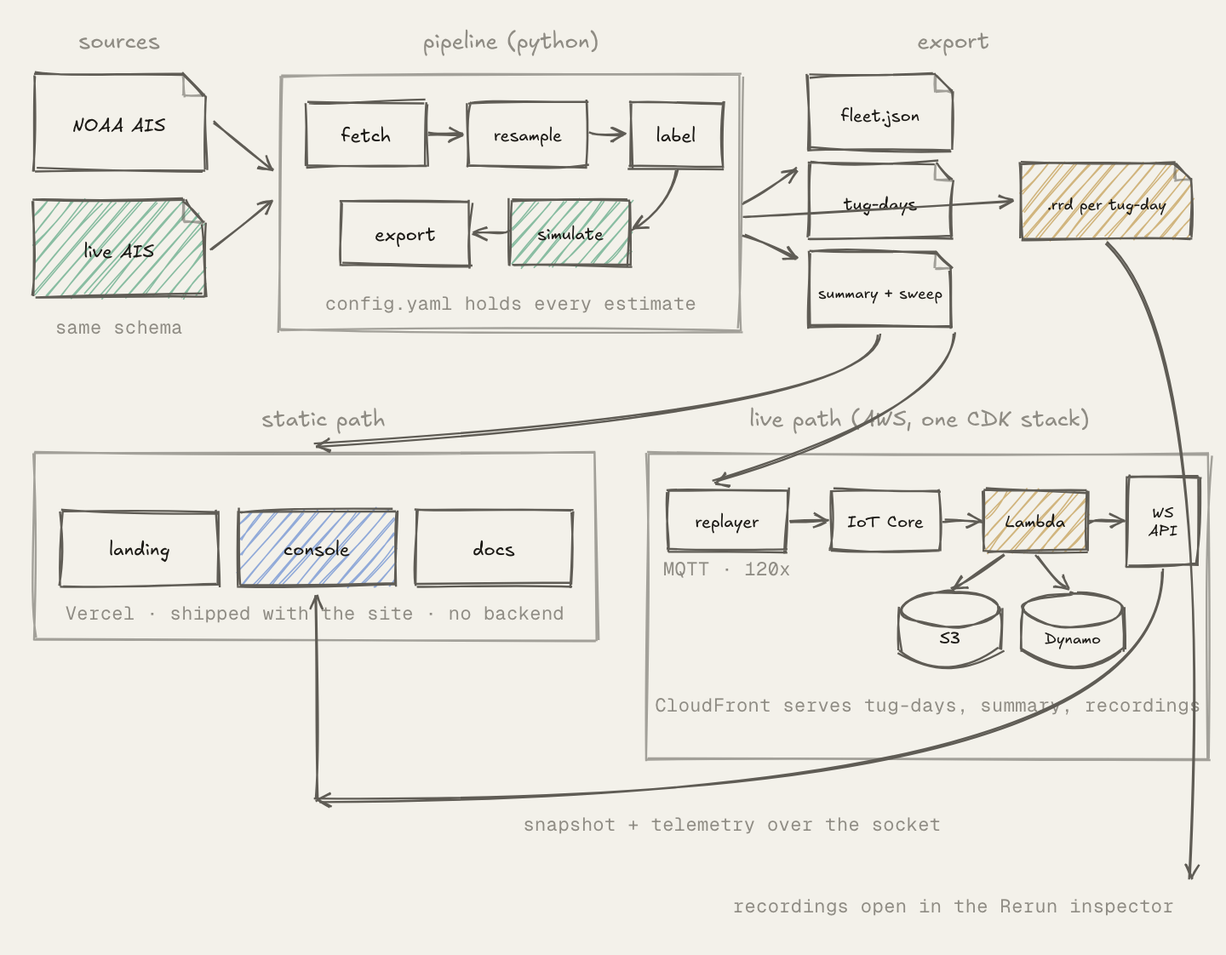
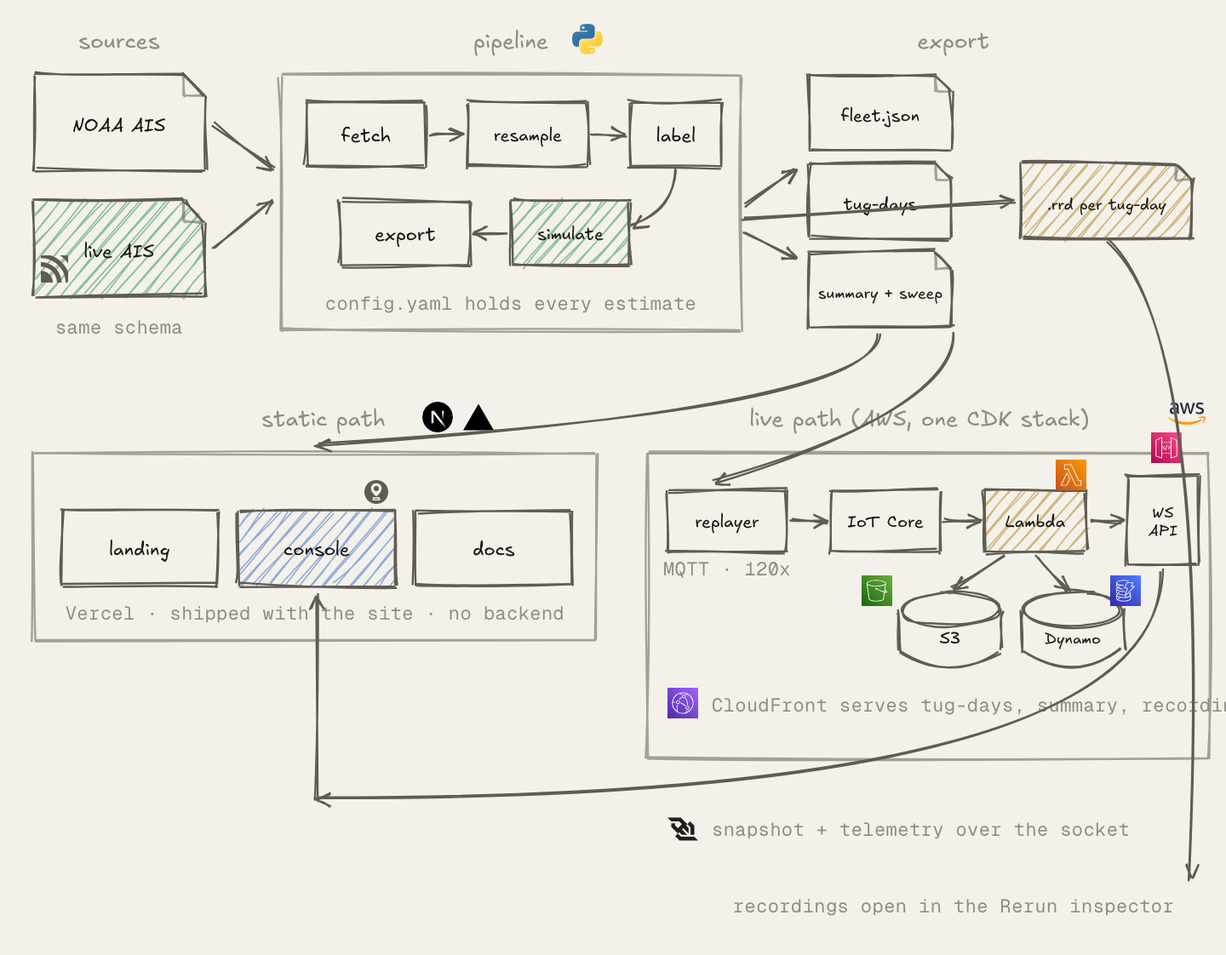
technology marks on the architecture drawing

diff --git a/dashboard/src/components/docs/logos.ts b/dashboard/src/components/docs/logos.ts
@@ -1,0 +1,4 @@
+/* Technology marks for the docs figures. Color marks come from the CC0 "SVG Logos" collection (gilbarbara/logos via @iconify-json/logos);
+ * MQTT and MapLibre are monochrome paths from Simple Icons (CC0). Trademarks belong to their owners; used here to label a diagram. */
+export interface LogoDef { w: number; h: number; body: string; mono: boolean }
+export const LOGOS: Record<string, LogoDef> = {"python":{"w":256,"h":255,"body":"<defs><linearGradient id=\"SVGg39WleeP\" x1=\"12.959%\" x2=\"79.639%\" y1=\"12.039%\" y2=\"78.201%\"><stop offset=\"0%\" stop-color=\"#387eb8\"/><stop offset=\"100%\" stop-color=\"#366994\"/></linearGradient><linearGradient id=\"SVGlXoRkc4T\" x1=\"19.128%\" x2=\"90.742%\" y1=\"20.579%\" y2=\"88.429%\"><stop offset=\"0%\" stop-color=\"#ffe052\"/><stop offset=\"100%\" stop-color=\"#ffc331\"/></linearGradient></defs><path fill=\"url(#SVGg39WleeP)\" d=\"M126.916.072c-64.832 0-60.784 28.115-60.784 28.115l.072 29.128h61.868v8.745H41.631S.145 61.355.145 126.77c0 65.417 36.21 63.097 36.21 63.097h21.61v-30.356s-1.165-36.21 35.632-36.21h61.362s34.475.557 34.475-33.319V33.97S194.67.072 126.916.072M92.802 19.66a11.12 11.12 0 0 1 11.13 11.13a11.12 11.12 0 0 1-11.13 11.13a11.12 11.12 0 0 1-11.13-11.13a11.12 11.12 0 0 1 11.13-11.13\"/><path fill=\"url(#SVGlXoRkc4T)\" d=\"M128.757 254.126c64.832 0 60.784-28.115 60.784-28.115l-.072-29.127H127.6v-8.745h86.441s41.486 4.705 41.486-60.712c0-65.416-36.21-63.096-36.21-63.096h-21.61v30.355s1.165 36.21-35.632 36.21h-61.362s-34.475-.557-34.475 33.32v56.013s-5.235 33.897 62.518 33.897m34.114-19.586a11.12 11.12 0 0 1-11.13-11.13a11.12 11.12 0 0 1 11.13-11.131a11.12 11.12 0 0 1 11.13 11.13a11.12 11.12 0 0 1-11.13 11.13\"/>","mono":false},"nextjs":{"w":256,"h":256,"body":"<defs><linearGradient id=\"SVGrDou6dwg\" x1=\"55.633%\" x2=\"83.228%\" y1=\"56.385%\" y2=\"96.08%\"><stop offset=\"0%\" stop-color=\"#fff\"/><stop offset=\"100%\" stop-color=\"#fff\" stop-opacity=\"0\"/></linearGradient><linearGradient id=\"SVG9onTObtB\" x1=\"50%\" x2=\"49.953%\" y1=\"0%\" y2=\"73.438%\"><stop offset=\"0%\" stop-color=\"#fff\"/><stop offset=\"100%\" stop-color=\"#fff\" stop-opacity=\"0\"/></linearGradient><circle id=\"SVGN5eQqeMK\" cx=\"128\" cy=\"128\" r=\"128\"/></defs><mask id=\"SVGMX2wGdvm\" fill=\"#fff\"><use href=\"#SVGN5eQqeMK\"/></mask><g mask=\"url(#SVGMX2wGdvm)\"><circle cx=\"128\" cy=\"128\" r=\"128\"/><path fill=\"url(#SVGrDou6dwg)\" d=\"M212.634 224.028L98.335 76.8H76.8v102.357h17.228V98.68L199.11 234.446a128 128 0 0 0 13.524-10.418\"/><path fill=\"url(#SVG9onTObtB)\" d=\"M163.556 76.8h17.067v102.4h-17.067z\"/></g>","mono":false},"vercel":{"w":256,"h":222,"body":"<path d=\"m128 0l128 221.705H0z\"/>","mono":false},"aws":{"w":256,"h":153,"body":"<path fill=\"#252f3e\" d=\"M72.392 55.438c0 3.137.34 5.68.933 7.545a45.4 45.4 0 0 0 2.712 6.103c.424.678.593 1.356.593 1.95c0 .847-.508 1.695-1.61 2.543l-5.34 3.56c-.763.509-1.526.763-2.205.763c-.847 0-1.695-.424-2.543-1.187a26 26 0 0 1-3.051-3.984c-.848-1.44-1.696-3.052-2.628-5.001q-9.919 11.697-24.922 11.698c-7.12 0-12.8-2.035-16.954-6.103c-4.153-4.07-6.272-9.495-6.272-16.276c0-7.205 2.543-13.054 7.714-17.462c5.17-4.408 12.037-6.612 20.768-6.612c2.882 0 5.849.254 8.985.678c3.137.424 6.358 1.102 9.749 1.865V29.33c0-6.443-1.357-10.935-3.985-13.563c-2.712-2.628-7.29-3.9-13.817-3.9c-2.967 0-6.018.34-9.155 1.103s-6.188 1.695-9.155 2.882c-1.356.593-2.373.932-2.967 1.102s-1.017.254-1.356.254c-1.187 0-1.78-.848-1.78-2.628v-4.154c0-1.356.17-2.373.593-2.966c.424-.594 1.187-1.187 2.374-1.78q4.45-2.29 10.68-3.815C33.908.763 38.316.255 42.978.255c10.088 0 17.463 2.288 22.21 6.866c4.662 4.577 7.036 11.528 7.036 20.853v27.464zM37.976 68.323c2.798 0 5.68-.508 8.731-1.526c3.052-1.017 5.765-2.882 8.053-5.425c1.357-1.61 2.374-3.39 2.882-5.425c.509-2.034.848-4.493.848-7.375v-3.56a71 71 0 0 0-7.799-1.441a64 64 0 0 0-7.968-.509c-5.68 0-9.833 1.102-12.63 3.391s-4.154 5.51-4.154 9.748c0 3.984 1.017 6.951 3.136 8.986c2.035 2.119 5.002 3.136 8.901 3.136m68.069 9.155c-1.526 0-2.543-.254-3.221-.848c-.678-.508-1.272-1.695-1.78-3.305L81.124 7.799c-.51-1.696-.764-2.798-.764-3.391c0-1.356.678-2.12 2.035-2.12h8.307c1.61 0 2.713.255 3.306.848c.678.509 1.187 1.696 1.695 3.306l14.241 56.117l13.224-56.117c.424-1.695.933-2.797 1.61-3.306c.679-.508 1.866-.847 3.392-.847h6.781c1.61 0 2.713.254 3.39.847c.679.509 1.272 1.696 1.611 3.306l13.394 56.795L168.01 6.442c.508-1.695 1.102-2.797 1.695-3.306c.678-.508 1.78-.847 3.306-.847h7.883c1.357 0 2.12.678 2.12 2.119c0 .424-.085.848-.17 1.356s-.254 1.187-.593 2.12l-20.43 65.525q-.762 2.544-1.78 3.306c-.678.509-1.78.848-3.22.848h-7.29c-1.611 0-2.713-.254-3.392-.848c-.678-.593-1.271-1.695-1.61-3.39l-13.14-54.676l-13.054 54.59c-.423 1.696-.932 2.798-1.61 3.391c-.678.594-1.865.848-3.39.848zm108.927 2.289c-4.408 0-8.816-.509-13.054-1.526c-4.239-1.017-7.544-2.12-9.748-3.39c-1.357-.764-2.29-1.611-2.628-2.374a6 6 0 0 1-.509-2.374V65.78c0-1.78.678-2.628 1.95-2.628a4.8 4.8 0 0 1 1.526.255c.508.17 1.271.508 2.119.847a46 46 0 0 0 9.324 2.967a51 51 0 0 0 10.088 1.017c5.34 0 9.494-.932 12.376-2.797s4.408-4.577 4.408-8.053c0-2.373-.763-4.323-2.289-5.934s-4.408-3.051-8.561-4.408l-12.292-3.814c-6.188-1.95-10.765-4.832-13.563-8.647c-2.797-3.73-4.238-7.883-4.238-12.291q0-5.34 2.289-9.41c1.525-2.712 3.56-5.085 6.103-6.95c2.543-1.95 5.425-3.391 8.816-4.408c3.39-1.017 6.95-1.441 10.68-1.441c1.865 0 3.815.085 5.68.339c1.95.254 3.73.593 5.51.932c1.695.424 3.306.848 4.832 1.357q2.288.762 3.56 1.525c1.187.679 2.034 1.357 2.543 2.12q.763 1.017.763 2.797v3.984c0 1.78-.678 2.713-1.95 2.713c-.678 0-1.78-.34-3.22-1.018q-7.25-3.306-16.276-3.306c-4.832 0-8.647.763-11.275 2.374c-2.627 1.61-3.984 4.069-3.984 7.544c0 2.374.848 4.408 2.543 6.019s4.832 3.221 9.325 4.662l12.037 3.815c6.103 1.95 10.511 4.662 13.139 8.137s3.9 7.46 3.9 11.868c0 3.645-.764 6.951-2.205 9.833c-1.525 2.882-3.56 5.425-6.188 7.46c-2.628 2.119-5.764 3.645-9.409 4.747c-3.815 1.187-7.799 1.78-12.122 1.78\"/><path fill=\"#f90\" d=\"M230.993 120.964c-27.888 20.599-68.408 31.534-103.247 31.534c-48.827 0-92.821-18.056-126.05-48.064c-2.628-2.373-.255-5.594 2.881-3.73c35.942 20.854 80.276 33.484 126.136 33.484c30.94 0 64.932-6.442 96.212-19.666c4.662-2.12 8.646 3.052 4.068 6.442m11.614-13.224c-3.56-4.577-23.566-2.204-32.636-1.102c-2.713.34-3.137-2.034-.678-3.814c15.936-11.19 42.13-7.968 45.181-4.239c3.052 3.815-.848 30.008-15.767 42.554c-2.288 1.95-4.492.933-3.475-1.61c3.39-8.393 10.935-27.296 7.375-31.789\"/>","mono":false},"lambda":{"w":256,"h":256,"body":"<defs><linearGradient id=\"SVGeyciVcvH\" x1=\"0%\" x2=\"100%\" y1=\"100%\" y2=\"0%\"><stop offset=\"0%\" stop-color=\"#c8511b\"/><stop offset=\"100%\" stop-color=\"#f90\"/></linearGradient></defs><path fill=\"url(#SVGeyciVcvH)\" d=\"M0 0h256v256H0z\"/><path fill=\"#fff\" d=\"M89.624 211.2H49.89l43.945-91.853l19.912 40.992zm7.079-100.63a3.22 3.22 0 0 0-2.887-1.805h-.01a3.2 3.2 0 0 0-2.886 1.82L41.913 213.022a3.203 3.203 0 0 0 2.893 4.58l46.848-.001a3.21 3.21 0 0 0 2.9-1.83l25.65-54.08a3.18 3.18 0 0 0-.016-2.762zM207.985 211.2h-39.477L105.174 78.624a3.21 3.21 0 0 0-2.897-1.824h-25.83l.03-32h50.626l63.042 132.573a3.21 3.21 0 0 0 2.897 1.827h14.943zm3.208-38.4h-16.121L132.03 40.227a3.21 3.21 0 0 0-2.9-1.827H73.273a3.206 3.206 0 0 0-3.208 3.197l-.035 38.4c0 .851.333 1.664.94 2.265c.6.602 1.414.938 2.267.938h27.017l63.337 132.576a3.2 3.2 0 0 0 2.893 1.824h44.709a3.203 3.203 0 0 0 3.207-3.2V176c0-1.766-1.434-3.2-3.207-3.2\"/>","mono":false},"dynamodb":{"w":256,"h":256,"body":"<defs><linearGradient id=\"SVGte2wIbLN\" x1=\"0%\" x2=\"100%\" y1=\"100%\" y2=\"0%\"><stop offset=\"0%\" stop-color=\"#2e27ad\"/><stop offset=\"100%\" stop-color=\"#527fff\"/></linearGradient></defs><path fill=\"url(#SVGte2wIbLN)\" d=\"M0 0h256v256H0z\"/><path fill=\"#fff\" d=\"M166.675 175.52c-10.682 8.637-33.091 13.2-54.534 13.2c-21.447 0-43.863-4.566-54.541-13.202v17.392h.003c0 8.675 22.397 18.342 54.538 18.342c32.115 0 54.499-9.655 54.534-18.323zm.003-33.049l6.4-.035v.035c0 3.866-1.936 7.475-5.705 10.779c4.57 4.021 5.705 7.966 5.705 10.775c0 .02-.003.035-.003.054v28.831h.003c0 16.035-31.398 24.69-60.937 24.69c-29.469 0-60.781-8.617-60.931-24.578c0-.016-.01-.032-.01-.048v-28.958c0-.007.006-.016.006-.026c.01-2.809 1.15-6.738 5.712-10.75c-4.534-4.005-5.686-7.912-5.715-10.699h.003c0-.013-.006-.022-.006-.035v-28.958c0-.01.006-.02.006-.029c.01-2.809 1.152-6.738 5.716-10.743c-4.538-4.009-5.69-7.92-5.719-10.703h.003c0-.012-.006-.025-.006-.038V63.08c0-.01.006-.019.006-.029C51.261 47.04 82.624 38.4 112.141 38.4c16.675 0 32.694 2.65 43.948 7.271l-2.448 5.866c-10.505-4.314-25.632-6.79-41.5-6.79c-32.141 0-54.538 9.668-54.538 18.349c0 8.677 22.397 18.345 54.538 18.345c.867.01 1.715 0 2.573-.032l.268 6.342c-.947.038-1.894.038-2.841.038c-21.447 0-43.863-4.568-54.541-13.204V91.97h.003v.073c.032 3.329 3.447 6.236 6.307 8.083c8.608 5.488 24.032 9.236 41.232 10.014l-.29 6.341c-17.425-.79-32.682-4.405-42.503-9.946c-2.42 1.809-4.746 4.256-4.746 7.03c0 8.677 22.397 18.345 54.538 18.345c3.152 0 6.281-.105 9.305-.315l.445 6.332c-3.168.22-6.451.33-9.75.33c-21.447 0-43.863-4.567-54.541-13.203v17.383h.003c.032 3.403 3.447 6.307 6.307 8.157c9.844 6.281 28.327 10.192 48.23 10.192h1.409v6.347h-1.408c-20.221 0-38.599-3.754-49.837-10.099c-2.406 1.806-4.7 4.24-4.7 6.992c0 8.677 22.396 18.348 54.537 18.348c32.115 0 54.499-9.655 54.534-18.326v-.035c-.006-2.758-2.31-5.192-4.723-6.998a45 45 0 0 1-5.14 2.523l-2.45-5.865c2.323-.955 4.339-1.987 5.993-3.072c2.886-1.883 6.323-4.825 6.323-8.129m27.411-46.418h-17.932c-1.06 0-2.055-.52-2.647-1.39a3.14 3.14 0 0 1-.33-2.951l10.91-27.27h-41.31l-19.2 38.086h20.423c1.02 0 1.98.486 2.586 1.301c.598.82.774 1.87.464 2.838l-18.228 56.818zm9.821-.974l-79.996 82.648a3.22 3.22 0 0 1-2.31.974a3.2 3.2 0 0 1-1.636-.444a3.16 3.16 0 0 1-1.414-3.692l21.075-65.69h-21.226a3.21 3.21 0 0 1-2.723-1.504a3.15 3.15 0 0 1-.138-3.088l22.4-44.434a3.2 3.2 0 0 1 2.861-1.755h48a3.21 3.21 0 0 1 2.646 1.39a3.15 3.15 0 0 1 .33 2.955L180.87 89.706h20.73c1.28 0 2.441.761 2.944 1.93a3.16 3.16 0 0 1-.634 3.443M62.256 194.158c4.534 2.555 10.243 4.703 16.966 6.38l1.562-6.158c-6.077-1.514-11.389-3.5-15.366-5.742zm16.966-44.403l1.562-6.154c-6.077-1.517-11.389-3.504-15.366-5.745l-3.162 5.52c4.534 2.555 10.24 4.704 16.966 6.38M62.256 92.594l3.162-5.52c3.97 2.241 9.286 4.225 15.366 5.745l-1.562 6.154c-6.732-1.679-12.438-3.827-16.966-6.38\"/>","mono":false},"s3":{"w":256,"h":256,"body":"<defs><linearGradient id=\"SVG7R6tZwZW\" x1=\"0%\" x2=\"100%\" y1=\"100%\" y2=\"0%\"><stop offset=\"0%\" stop-color=\"#1b660f\"/><stop offset=\"100%\" stop-color=\"#6cae3e\"/></linearGradient></defs><path fill=\"url(#SVG7R6tZwZW)\" d=\"M0 0h256v256H0z\"/><path fill=\"#fff\" d=\"m194.675 137.256l1.229-8.652c11.33 6.787 11.478 9.59 11.475 9.667c-.02.016-1.952 1.629-12.704-1.015m-6.218-1.728c-19.584-5.926-46.857-18.438-57.894-23.654c0-.045.013-.086.013-.131c0-4.24-3.45-7.69-7.693-7.69c-4.237 0-7.687 3.45-7.687 7.69s3.45 7.69 7.687 7.69c1.862 0 3.552-.695 4.886-1.8c12.986 6.148 40.048 18.478 59.776 24.302l-7.801 55.059q-.033.225-.032.451c0 4.848-21.463 13.754-56.532 13.754c-35.44 0-57.13-8.906-57.13-13.754q0-.22-.028-.435l-16.3-119.062c14.108 9.712 44.454 14.85 73.478 14.85c28.979 0 59.273-5.12 73.41-14.802zM48 65.528c.23-4.21 24.428-20.73 75.2-20.73c50.764 0 74.966 16.516 75.2 20.73v1.437c-2.784 9.443-34.144 19.434-75.2 19.434c-41.127 0-72.503-10.023-75.2-19.479zm156.8.07c0-11.087-31.79-27.2-81.6-27.2c-49.812 0-81.6 16.113-81.6 27.2l.3 2.414l17.754 129.676c.426 14.503 39.1 19.91 63.526 19.91c30.31 0 62.512-6.969 62.928-19.9l7.668-54.07c4.265 1.02 7.776 1.542 10.595 1.542c3.785 0 6.345-.925 7.897-2.774c1.274-1.517 1.76-3.354 1.396-5.31c-.83-4.428-6.087-9.202-16.794-15.311l7.603-53.639z\"/>","mono":false},"cloudfront":{"w":256,"h":256,"body":"<defs><linearGradient id=\"SVGusebDeuy\" x1=\"0%\" x2=\"100%\" y1=\"100%\" y2=\"0%\"><stop offset=\"0%\" stop-color=\"#4d27a8\"/><stop offset=\"100%\" stop-color=\"#a166ff\"/></linearGradient></defs><path fill=\"url(#SVGusebDeuy)\" d=\"M0 0h256v256H0z\"/><path fill=\"#fff\" d=\"M176.39 166.794c0-5.293-4.307-9.6-9.6-9.6s-9.6 4.307-9.6 9.6s4.308 9.6 9.6 9.6c5.293 0 9.6-4.308 9.6-9.6m6.4 0c0 8.822-7.177 16-16 16c-8.822 0-16-7.178-16-16c0-8.823 7.178-16 16-16c8.823 0 16 7.177 16 16m-85.536-46.18c0-5.292-4.307-9.6-9.6-9.6c-5.296 0-9.6 4.308-9.6 9.6c0 5.293 4.304 9.6 9.6 9.6c5.293 0 9.6-4.307 9.6-9.6m6.4 0c0 8.823-7.18 16-16 16c-8.822 0-16-7.177-16-16c0-8.822 7.178-16 16-16c8.82 0 16 7.178 16 16m23.482-50.192c0 5.293 4.307 9.6 9.6 9.6c5.296 0 9.6-4.307 9.6-9.6c0-5.296-4.304-9.6-9.6-9.6c-5.293 0-9.6 4.304-9.6 9.6m-6.4 0c0-8.822 7.18-16 16-16c8.822 0 16 7.178 16 16c0 8.823-7.178 16-16 16c-8.82 0-16-7.177-16-16M211.2 128c0-29.674-15.91-57.126-41.562-71.971c-4.598.928-9.046 2.198-14.595 4.205l-2.176-6.02a131 131 0 0 1 7.984-2.61A83 83 0 0 0 128 44.8c-5.405 0-10.723.56-15.92 1.574c3.763 2.202 7.1 4.397 10.342 6.855l-3.868 5.097c-4.57-3.462-9.306-6.396-15.524-9.654c-31.42 9.882-54.05 37.594-57.644 70.138c6.588-1.335 12.915-2.061 19.939-2.234l.157 6.397c-7.36.182-13.684.963-20.596 2.483c-.028.848-.086 1.706-.086 2.544c0 27.706 13.706 53.235 36.246 68.63c-4.01-11.939-6.006-23.222-6.006-34.243c0-6.285 1.082-11.446 2.224-16.909c.266-1.264.534-2.55.797-3.884l6.281 1.238c-.268 1.357-.544 2.672-.812 3.962c-1.12 5.35-2.09 9.97-2.09 15.593c0 12.506 2.746 25.437 8.333 39.479c11.9 6.179 24.752 9.334 38.227 9.334c8.82 0 17.427-1.408 25.638-4.115c3.223-6.359 5.613-12.359 7.61-19.248l6.147 1.782a114 114 0 0 1-5.126 14.147c5.165-2.323 10.051-5.196 14.637-8.55c-1.104-2.707-2.288-5.398-3.597-8.02l5.725-2.863c1.113 2.227 2.134 4.505 3.11 6.797C200.656 175.28 211.2 152.512 211.2 128m6.4 0c0 27.926-12.691 53.757-34.813 70.877c-5.478 4.256-11.42 7.789-17.702 10.633c-2.666 1.21-5.38 2.33-8.17 3.27c-9.216 3.198-18.953 4.82-28.915 4.82c-14.72 0-29.338-3.667-42.278-10.605C56.534 191.38 38.4 161.11 38.4 128c0-2.195.058-3.866.189-5.411c2.179-37.389 27.83-69.75 63.814-80.458C110.598 39.658 119.216 38.4 128 38.4c15.386 0 30.525 3.962 43.789 11.453C200.042 65.68 217.6 95.629 217.6 128m-98.195-46.518l-4.205-4.823c-7.174 6.26-12.755 12.906-19.274 22.944l5.37 3.485c6.17-9.507 11.418-15.766 18.109-21.606m-9.725 41.484l-2.08 6.052c14.698 5.046 27.52 13.097 40.349 25.337l4.419-4.63c-13.523-12.9-27.088-21.402-42.688-26.759m42.787-37.628c12.007 18.31 18.768 38.41 20.093 59.744l-6.387.396c-1.258-20.21-7.667-39.264-19.053-56.63z\"/>","mono":false},"apigateway":{"w":256,"h":256,"body":"<defs><linearGradient id=\"SVGyDrnJbhE\" x1=\"0%\" x2=\"100%\" y1=\"100%\" y2=\"0%\"><stop offset=\"0%\" stop-color=\"#b0084d\"/><stop offset=\"100%\" stop-color=\"#ff4f8b\"/></linearGradient></defs><path fill=\"url(#SVGyDrnJbhE)\" d=\"M0 0h256v256H0z\"/><path fill=\"#fff\" d=\"M109.008 178.024h9.392v-6.455h-9.392zm15.792 0h9.6v-6.455h-9.6zM86.4 46.814L44.8 67.463v128.356l41.6 14.068zm6.4 40.845v83.91h9.6v6.455h-9.6v36.349a3.24 3.24 0 0 1-1.331 2.62a3.18 3.18 0 0 1-2.887.44l-48-16.23a3.23 3.23 0 0 1-2.182-3.06V65.452c0-1.226.694-2.353 1.789-2.895l48-23.824a3.16 3.16 0 0 1 3.1.155a3.23 3.23 0 0 1 1.511 2.74v39.576h9.6v6.455zm48 90.365h9.6v-6.455h-9.6zm.208-90.365h9.392v-6.455h-9.392zm-16 0h9.392v-6.455h-9.392zm-16 0h9.392v-6.455h-9.392zM211.2 67.463l-41.6-20.649v163.073l41.6-14.068zm6.4 130.68a3.23 3.23 0 0 1-2.182 3.06l-48 16.23a3.17 3.17 0 0 1-2.887-.44a3.24 3.24 0 0 1-1.331-2.62v-36.35h-6.192v-6.454h6.192v-83.91h-6.192v-6.455h6.192V41.628c0-1.117.573-2.153 1.51-2.74a3.16 3.16 0 0 1 3.101-.155l48 23.824a3.23 3.23 0 0 1 1.789 2.895zm-80.211-89.962l-5.978-2.317l-16 41.955l5.978 2.317zm21.673 20.487a3.243 3.243 0 0 0 0-4.563l-12.8-12.91l-4.524 4.564l10.537 10.628l-10.537 10.627l4.524 4.564zm-49.324 12.91l-12.8-12.91a3.243 3.243 0 0 1 0-4.563l12.8-12.91l4.524 4.564l-10.537 10.628l10.537 10.627z\"/>","mono":false},"websocket":{"w":256,"h":193,"body":"<path fill=\"#231f20\" d=\"M192.44 144.645h31.78V68.339l-35.805-35.804l-22.472 22.472l26.497 26.497zm31.864 15.931H113.452L86.954 134.08l11.237-11.236l21.885 21.885h45.028l-44.357-44.441l11.32-11.32l44.357 44.358v-45.03l-21.801-21.801l11.152-11.153L110.685 0H0l31.696 31.696v.084h65.74l23.227 23.227l-33.96 33.96L63.476 65.74V47.712h-31.78v31.193l55.007 55.007L64.314 156.3l35.805 35.805H256z\"/>","mono":false},"react":{"w":256,"h":228,"body":"<path fill=\"#00d8ff\" d=\"M210.483 73.824a172 172 0 0 0-8.24-2.597c.465-1.9.893-3.777 1.273-5.621c6.238-30.281 2.16-54.676-11.769-62.708c-13.355-7.7-35.196.329-57.254 19.526a171 171 0 0 0-6.375 5.848a156 156 0 0 0-4.241-3.917C100.759 3.829 77.587-4.822 63.673 3.233C50.33 10.957 46.379 33.89 51.995 62.588a171 171 0 0 0 1.892 8.48c-3.28.932-6.445 1.924-9.474 2.98C17.309 83.498 0 98.307 0 113.668c0 15.865 18.582 31.778 46.812 41.427a146 146 0 0 0 6.921 2.165a168 168 0 0 0-2.01 9.138c-5.354 28.2-1.173 50.591 12.134 58.266c13.744 7.926 36.812-.22 59.273-19.855a146 146 0 0 0 5.342-4.923a168 168 0 0 0 6.92 6.314c21.758 18.722 43.246 26.282 56.54 18.586c13.731-7.949 18.194-32.003 12.4-61.268a145 145 0 0 0-1.535-6.842c1.62-.48 3.21-.974 4.76-1.488c29.348-9.723 48.443-25.443 48.443-41.52c0-15.417-17.868-30.326-45.517-39.844m-6.365 70.984q-2.102.694-4.3 1.345c-3.24-10.257-7.612-21.163-12.963-32.432c5.106-11 9.31-21.767 12.459-31.957c2.619.758 5.16 1.557 7.61 2.4c23.69 8.156 38.14 20.213 38.14 29.504c0 9.896-15.606 22.743-40.946 31.14m-10.514 20.834c2.562 12.94 2.927 24.64 1.23 33.787c-1.524 8.219-4.59 13.698-8.382 15.893c-8.067 4.67-25.32-1.4-43.927-17.412a157 157 0 0 1-6.437-5.87c7.214-7.889 14.423-17.06 21.459-27.246c12.376-1.098 24.068-2.894 34.671-5.345q.785 3.162 1.386 6.193M87.276 214.515c-7.882 2.783-14.16 2.863-17.955.675c-8.075-4.657-11.432-22.636-6.853-46.752a157 157 0 0 1 1.869-8.499c10.486 2.32 22.093 3.988 34.498 4.994c7.084 9.967 14.501 19.128 21.976 27.15a135 135 0 0 1-4.877 4.492c-9.933 8.682-19.886 14.842-28.658 17.94M50.35 144.747c-12.483-4.267-22.792-9.812-29.858-15.863c-6.35-5.437-9.555-10.836-9.555-15.216c0-9.322 13.897-21.212 37.076-29.293c2.813-.98 5.757-1.905 8.812-2.773c3.204 10.42 7.406 21.315 12.477 32.332c-5.137 11.18-9.399 22.249-12.634 32.792a135 135 0 0 1-6.318-1.979m12.378-84.26c-4.811-24.587-1.616-43.134 6.425-47.789c8.564-4.958 27.502 2.111 47.463 19.835a144 144 0 0 1 3.841 3.545c-7.438 7.987-14.787 17.08-21.808 26.988c-12.04 1.116-23.565 2.908-34.161 5.309a160 160 0 0 1-1.76-7.887m110.427 27.268a348 348 0 0 0-7.785-12.803c8.168 1.033 15.994 2.404 23.343 4.08c-2.206 7.072-4.956 14.465-8.193 22.045a381 381 0 0 0-7.365-13.322m-45.032-43.861c5.044 5.465 10.096 11.566 15.065 18.186a322 322 0 0 0-30.257-.006c4.974-6.559 10.069-12.652 15.192-18.18M82.802 87.83a323 323 0 0 0-7.227 13.238c-3.184-7.553-5.909-14.98-8.134-22.152c7.304-1.634 15.093-2.97 23.209-3.984a322 322 0 0 0-7.848 12.897m8.081 65.352c-8.385-.936-16.291-2.203-23.593-3.793c2.26-7.3 5.045-14.885 8.298-22.6a321 321 0 0 0 7.257 13.246c2.594 4.48 5.28 8.868 8.038 13.147m37.542 31.03c-5.184-5.592-10.354-11.779-15.403-18.433c4.902.192 9.899.29 14.978.29c5.218 0 10.376-.117 15.453-.343c-4.985 6.774-10.018 12.97-15.028 18.486m52.198-57.817c3.422 7.8 6.306 15.345 8.596 22.52c-7.422 1.694-15.436 3.058-23.88 4.071a382 382 0 0 0 7.859-13.026a347 347 0 0 0 7.425-13.565m-16.898 8.101a359 359 0 0 1-12.281 19.815a329 329 0 0 1-23.444.823c-7.967 0-15.716-.248-23.178-.732a310 310 0 0 1-12.513-19.846h.001a307 307 0 0 1-10.923-20.627a310 310 0 0 1 10.89-20.637l-.001.001a307 307 0 0 1 12.413-19.761c7.613-.576 15.42-.876 23.31-.876H128c7.926 0 15.743.303 23.354.883a329 329 0 0 1 12.335 19.695a359 359 0 0 1 11.036 20.54a330 330 0 0 1-11 20.722m22.56-122.124c8.572 4.944 11.906 24.881 6.52 51.026q-.518 2.504-1.15 5.09c-10.622-2.452-22.155-4.275-34.23-5.408c-7.034-10.017-14.323-19.124-21.64-27.008a161 161 0 0 1 5.888-5.4c18.9-16.447 36.564-22.941 44.612-18.3M128 90.808c12.625 0 22.86 10.235 22.86 22.86s-10.235 22.86-22.86 22.86s-22.86-10.235-22.86-22.86s10.235-22.86 22.86-22.86\"/>","mono":false},"typescript":{"w":256,"h":256,"body":"<path fill=\"#3178c6\" d=\"M20 0h216c11.046 0 20 8.954 20 20v216c0 11.046-8.954 20-20 20H20c-11.046 0-20-8.954-20-20V20C0 8.954 8.954 0 20 0\"/><path fill=\"#fff\" d=\"M150.518 200.475v27.62q6.738 3.453 15.938 5.179T185.849 235q9.934 0 18.874-1.899t15.678-6.257q6.738-4.359 10.669-11.394q3.93-7.033 3.93-17.391q0-7.51-2.246-13.163a30.8 30.8 0 0 0-6.479-10.055q-4.232-4.402-10.149-7.898t-13.347-6.602q-5.442-2.245-9.761-4.359t-7.342-4.316q-3.024-2.2-4.665-4.661t-1.641-5.567q0-2.848 1.468-5.135q1.469-2.288 4.147-3.927t6.565-2.547q3.887-.906 8.638-.906q3.456 0 7.299.518q3.844.517 7.732 1.597a54 54 0 0 1 7.558 2.719a41.7 41.7 0 0 1 6.781 3.797v-25.807q-6.306-2.417-13.778-3.582T198.633 107q-9.847 0-18.658 2.115q-8.811 2.114-15.506 6.602q-6.694 4.49-10.582 11.437Q150 134.102 150 143.769q0 12.342 7.127 21.06t21.638 14.759a292 292 0 0 1 10.625 4.575q4.924 2.244 8.509 4.66t5.658 5.265t2.073 6.474a9.9 9.9 0 0 1-1.296 4.963q-1.295 2.287-3.93 3.97t-6.565 2.632t-9.2.95q-8.983 0-17.794-3.151t-16.327-9.451m-46.036-68.733H140V109H41v22.742h35.345V233h28.137z\"/>","mono":false},"github":{"w":256,"h":250,"body":"<path fill=\"#161614\" d=\"M128.001 0C57.317 0 0 57.307 0 128.001c0 56.554 36.676 104.535 87.535 121.46c6.397 1.185 8.746-2.777 8.746-6.158c0-3.052-.12-13.135-.174-23.83c-35.61 7.742-43.124-15.103-43.124-15.103c-5.823-14.795-14.213-18.73-14.213-18.73c-11.613-7.944.876-7.78.876-7.78c12.853.902 19.621 13.19 19.621 13.19c11.417 19.568 29.945 13.911 37.249 10.64c1.149-8.272 4.466-13.92 8.127-17.116c-28.431-3.236-58.318-14.212-58.318-63.258c0-13.975 5-25.394 13.188-34.358c-1.329-3.224-5.71-16.242 1.24-33.874c0 0 10.749-3.44 35.21 13.121c10.21-2.836 21.16-4.258 32.038-4.307c10.878.049 21.837 1.47 32.066 4.307c24.431-16.56 35.165-13.12 35.165-13.12c6.967 17.63 2.584 30.65 1.255 33.873c8.207 8.964 13.173 20.383 13.173 34.358c0 49.163-29.944 59.988-58.447 63.157c4.591 3.972 8.682 11.762 8.682 23.704c0 17.126-.148 30.91-.148 35.126c0 3.407 2.304 7.398 8.792 6.14C219.37 232.5 256 184.537 256 128.002C256 57.307 198.691 0 128.001 0m-80.06 182.34c-.282.636-1.283.827-2.194.39c-.929-.417-1.45-1.284-1.15-1.922c.276-.655 1.279-.838 2.205-.399c.93.418 1.46 1.293 1.139 1.931m6.296 5.618c-.61.566-1.804.303-2.614-.591c-.837-.892-.994-2.086-.375-2.66c.63-.566 1.787-.301 2.626.591c.838.903 1 2.088.363 2.66m4.32 7.188c-.785.545-2.067.034-2.86-1.104c-.784-1.138-.784-2.503.017-3.05c.795-.547 2.058-.055 2.861 1.075c.782 1.157.782 2.522-.019 3.08m7.304 8.325c-.701.774-2.196.566-3.29-.49c-1.119-1.032-1.43-2.496-.726-3.27c.71-.776 2.213-.558 3.315.49c1.11 1.03 1.45 2.505.701 3.27m9.442 2.81c-.31 1.003-1.75 1.459-3.199 1.033c-1.448-.439-2.395-1.613-2.103-2.626c.301-1.01 1.747-1.484 3.207-1.028c1.446.436 2.396 1.602 2.095 2.622m10.744 1.193c.036 1.055-1.193 1.93-2.715 1.95c-1.53.034-2.769-.82-2.786-1.86c0-1.065 1.202-1.932 2.733-1.958c1.522-.03 2.768.818 2.768 1.868m10.555-.405c.182 1.03-.875 2.088-2.387 2.37c-1.485.271-2.861-.365-3.05-1.386c-.184-1.056.893-2.114 2.376-2.387c1.514-.263 2.868.356 3.061 1.403\"/>","mono":false},"mqtt":{"w":24,"h":24,"body":"<path d=\"M10.657 23.994h-9.45A1.212 1.212 0 0 1 0 22.788v-9.18h.071c5.784 0 10.504 4.65 10.586 10.386Zm7.606 0h-4.045C14.135 16.246 7.795 9.977 0 9.942V6.038h.071c9.983 0 18.121 8.044 18.192 17.956Zm4.53 0h-.97C21.754 12.071 11.995 2.407 0 2.372v-1.16C0 .55.544.006 1.207.006h7.64C15.733 2.49 21.257 7.789 24 14.508v8.291c0 .663-.544 1.195-1.207 1.195ZM16.713.006h6.092A1.19 1.19 0 0 1 24 1.2v5.914c-.91-1.242-2.046-2.65-3.158-3.762C19.588 2.11 18.122.987 16.714.005Z\" fill=\"currentColor\"/>","mono":true},"maplibre":{"w":24,"h":24,"body":"<path d=\"M12 0A12 12 0 0 0 0 12a12 12 0 0 0 12 12 12 12 0 0 0 12-12A12 12 0 0 0 12 0zm0 3.19c2.937 0 5.371 2.265 5.371 5.035 0 4.111-4.364 7.635-5.035 8.138-.084 0-.084.084-.084.084-.084.084-.168.084-.168.084s-.168 0-.168-.084l-.084-.084c-.84-.503-5.203-3.943-5.203-8.138 0-2.77 2.434-5.036 5.371-5.036zm0 2.601c-1.427 0-2.602 1.173-2.602 2.684 0 1.51 1.175 2.685 2.602 2.685 1.427 0 2.602-1.175 2.602-2.685S13.427 5.79 12 5.79zM8.979 17.287h6.042a.66.66 0 0 1 .67.672v2.014a.66.66 0 0 1-.67.67H8.98a.66.66 0 0 1-.67-.67v-2.014a.66.66 0 0 1 .67-.672zm.755 1.258v.924h4.448v-.924H9.734z\" fill=\"currentColor\"/>","mono":true}};

diff --git a/dashboard/src/components/docs/figures.tsx b/dashboard/src/components/docs/figures.tsx
@@ -442,11 +442,13 @@ export const FIGURES: Record<string, FigureDef> = {
       s.text(70, 28, "sources", { size: 13, tone: "muted" });
       s.file(20, 44, 100, 56, { label: "NOAA AIS", size: 11 });
       s.file(20, 118, 100, 56, { label: "live AIS", size: 11, fill: "green" });
+      s.logo(24, 150, 16, "mqtt");
       s.mono(70, 196, "same schema", { size: 9 });
       s.arrow(125, 72, 160, 100);
       s.arrow(125, 146, 160, 118);
       // pipeline
-      s.text(300, 28, "pipeline (python)", { size: 13, tone: "muted" });
+      s.text(300, 28, "pipeline", { size: 13, tone: "muted" });
+      s.logo(336, 14, 18, "python");
       s.box(165, 44, 270, 150, { dashed: true, faint: true });
       s.box(180, 60, 70, 38, { label: "fetch", size: 11 });
       s.arrow(252, 79, 272, 79);
@@ -469,14 +471,18 @@ export const FIGURES: Record<string, FigureDef> = {
       s.arrow(437, 128, 595, 118);
       // static path
       s.text(190, 250, "static path", { size: 13, tone: "muted" });
+      s.logo(248, 236, 18, "nextjs");
+      s.logo(272, 236, 18, "vercel");
       s.box(20, 266, 330, 110, { dashed: true, faint: true });
       s.box(36, 300, 92, 44, { label: "landing", size: 11 });
       s.box(140, 300, 92, 44, { label: "console", size: 11, fill: "blue" });
+      s.logo(214, 282, 14, "maplibre");
       s.box(244, 300, 92, 44, { label: "docs", size: 11 });
       s.mono(185, 364, "Vercel · shipped with the site · no backend", { size: 9 });
       s.bend(517, 196, 517, 240, 186, 262, { dashed: true });
       // live path
       s.text(540, 250, "live path (AWS, one CDK stack)", { size: 13, tone: "muted" });
+      s.logo(686, 232, 22, "aws");
       s.box(380, 266, 330, 180, { dashed: true, faint: true });
       s.box(392, 288, 70, 36, { label: "replayer", size: 10 });
       s.mono(427, 338, "MQTT · 120x", { size: 9 });
@@ -484,18 +490,24 @@ export const FIGURES: Record<string, FigureDef> = {
       s.box(488, 288, 64, 36, { label: "IoT Core", size: 10 });
       s.arrow(554, 306, 576, 306);
       s.box(578, 288, 60, 36, { label: "Lambda", size: 10, fill: "amber" });
+      s.logo(620, 270, 18, "lambda");
       s.db(600, 348, 60, 44, { label: "Dynamo", size: 9 });
+      s.logo(652, 338, 18, "dynamodb");
       s.db(528, 348, 60, 44, { label: "S3", size: 10 });
+      s.logo(506, 338, 18, "s3");
       s.bend(608, 326, 620, 340, 628, 346);
       s.bend(590, 326, 570, 340, 560, 346);
       s.arrow(640, 306, 660, 306);
       s.box(662, 280, 42, 52, { label: "WS\nAPI", size: 9 });
-      s.mono(545, 418, "CloudFront serves tug-days, summary, recordings", { size: 9 });
+      s.logo(676, 254, 18, "apigateway");
+      s.logo(392, 404, 18, "cloudfront");
+      s.mono(418, 418, "CloudFront serves tug-days, summary, recordings", { size: 9, anchor: "start" });
       s.bend(560, 196, 560, 240, 420, 284, { dashed: true });
       // live back to the console
       s.bend(683, 334, 683, 470, 186, 470);
       s.arrow(186, 470, 186, 350);
-      s.mono(430, 488, "snapshot + telemetry over the socket", { size: 9 });
+      s.logo(392, 478, 18, "websocket");
+      s.mono(418, 491, "snapshot + telemetry over the socket", { size: 9, anchor: "start" });
       // inspector
       s.bend(650, 142, 712, 200, 700, 516);
       s.mono(560, 536, "recordings open in the Rerun inspector", { size: 9 });

diff --git a/dashboard/src/components/docs/rough.tsx b/dashboard/src/components/docs/rough.tsx
@@ -2,6 +2,7 @@ import type { ReactElement } from "react";
 import rough from "roughjs";
 import type { Options } from "roughjs/bin/core";
 import styles from "./Docs.module.css";
+import { LOGOS } from "./logos";
 
 /**
  * A tiny scene DSL over roughjs' generator. Everything is drawn with a fixed per-shape seed, so the
@@ -93,6 +94,25 @@ export class Scene {
       >
         {s}
       </text>,
+    );
+    return this;
+  }
+
+  /** A technology mark, drawn crisp (not rough) inside a size x size box whose top-left is x, y. */
+  logo(x: number, y: number, size: number, name: keyof typeof LOGOS) {
+    const l = LOGOS[name];
+    if (!l) return this;
+    this.n += 1;
+    const scale = size / Math.max(l.w, l.h);
+    const dx = (size - l.w * scale) / 2;
+    const dy = (size - l.h * scale) / 2;
+    this.nodes.push(
+      <g
+        key={`l${this.n}`}
+        transform={`translate(${x + dx} ${y + dy}) scale(${scale})`}
+        className={l.mono ? styles.logoMono : undefined}
+        dangerouslySetInnerHTML={{ __html: l.body }}
+      />,
     );
     return this;
   }

diff --git a/dashboard/src/components/docs/Docs.module.css b/dashboard/src/components/docs/Docs.module.css
@@ -237,3 +237,7 @@
   width: 100% !important;
   height: auto;
 }
+
+.logoMono {
+  color: var(--d-fg-2);
+}
